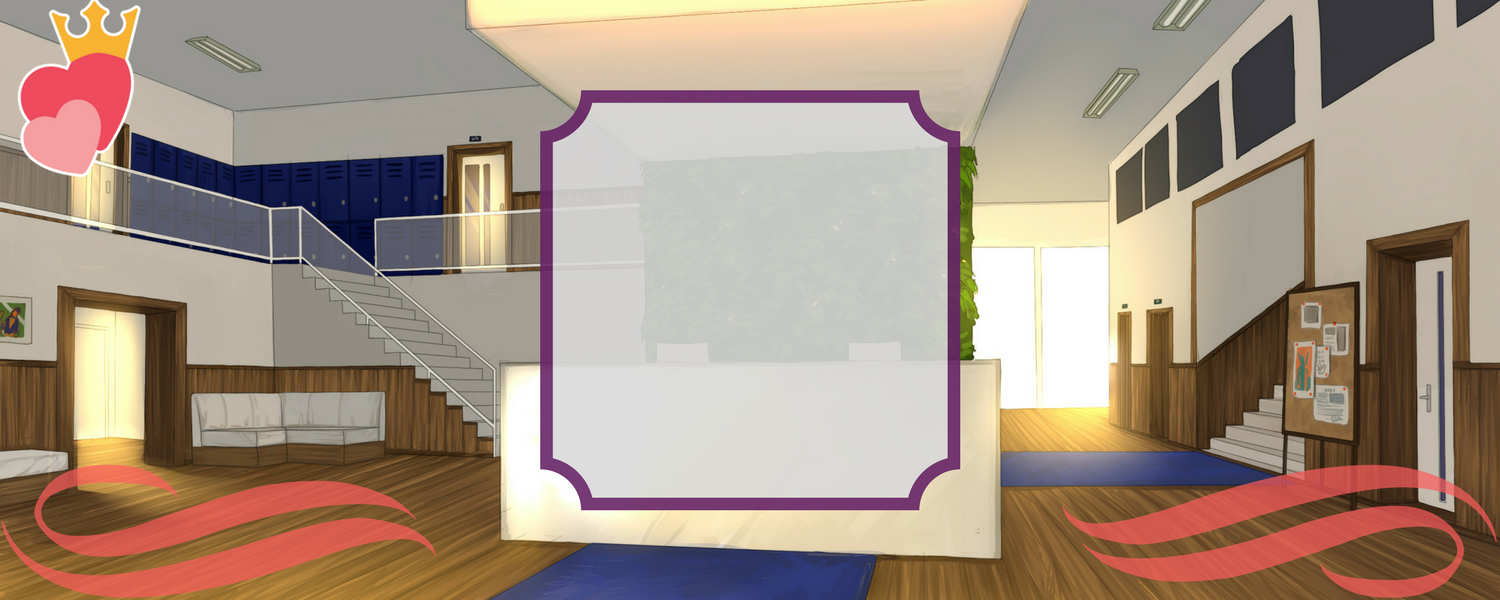
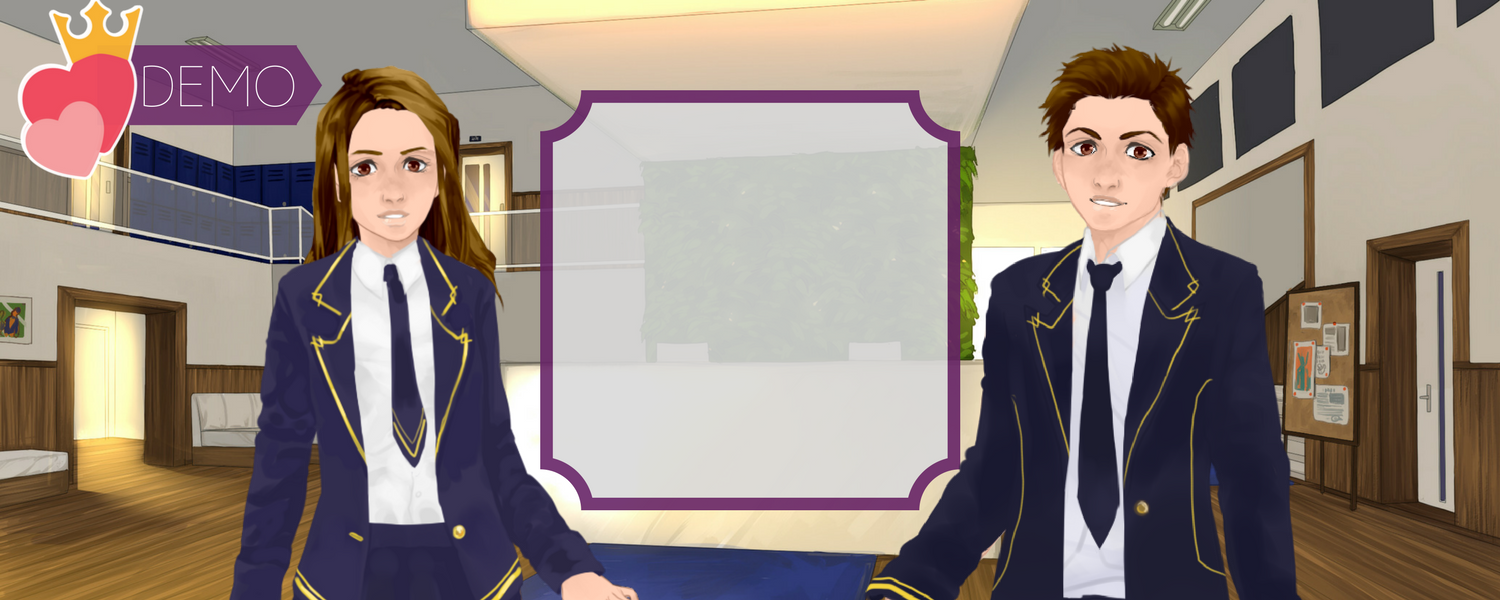
Version 1.3.5

diff --git a/css/se-stylesheet.css b/css/se-stylesheet.css
@@ -367,7 +367,7 @@
 	{
 		position: relative;
 		display: flex;
-
+		margin: 10px;
 		padding-bottom: 10px;
 
 		left: 50%;
@@ -1182,6 +1182,12 @@
 	.flex-panel2/*must have a flex-container parent*/
 	{
 		flex:2;
+	}
+
+	.flex-panel3/*must have a flex-container parent*/
+	{
+		flex:3;
+		margin: 5px;
 	}
 
 	.login-signup-labels

diff --git a/index.php b/index.php
@@ -183,8 +183,29 @@
 				</div>
 				
 				<div class = "card-content">
-					<p>Sweet Elite's Demo is now available!</p>
-					<p>Sign up now and get access to 3 free chapters to celebrate the demo's release!</p>
+					<h4>Sweet Elite's Demo is Now Available!</h4>
+					<p><b>Sign up now and get access to 3 FREE chapters to celebrate the demo's release!</b></p>
+					<br>
+
+					<div class = "flex-container">
+						<div class = "flex-panel3">
+							<img class = "img-badge" src = "images/general/chapter_images/chapter0.png"></img>
+							<h5>INTRODUCTION</h5>
+							<p><b>Teaser:</b> You just arrived at Arlington Academy, but everything is so new and big! You're going to need help from a few senior students who will lay down the basics on you.</p>
+						</div>
+
+						<div class = "flex-panel3">
+							<img class = "img-badge" src = "images/general/chapter_images/chapter1.png"></img>
+							<h5>CHAPTER 1</h5>
+							<p><b>Teaser:</b> Classes start tomorrow, so today is the time to try to make some new friends...but why is everybody so stressed today? What could be on their minds?</p>
+						</div>
+
+						<div class = "flex-panel3">
+							<img class = "img-badge" src = "images/general/chapter_images/chapter2.png"></img>
+							<h5>CHAPTER 2</h5>
+							<p><b>Teaser:</b> It seems the whole school is to be revolving around a certain teenage celebrity and an exclusive homecoming party. But things aren't exactly as great as they look on the surface...</p>
+						</div>
+					</div>
 				</div>
 
 				<div style = "position: relative;">

diff --git a/profile/profile_idcard.php b/profile/profile_idcard.php
@@ -114,7 +114,7 @@ $hauteur_source6 = imagesy($source6);
 imagefilter($source2, IMG_FILTER_COLORIZE, $eye_rgb[0], $eye_rgb[1], $eye_rgb[2], $eye_rgb[3]); //Eye color
 imagefilter($source3, IMG_FILTER_COLORIZE, $skin_rgb[0], $skin_rgb[1], $skin_rgb[2], $skin_rgb[3]); //Lip color = skin color
 imagefilter($source4, IMG_FILTER_COLORIZE, $hair_rgb[0], $hair_rgb[1], $hair_rgb[2], $hair_rgb[3]); //Hair color
-imagefilter($destination, IMG_FILTER_COLORIZE, $skin_rgb[0], $skin_rgb[1], $skin_rgb[2], $skin_rgb[3]);//Skin color
+imagefilter($source6, IMG_FILTER_COLORIZE, $skin_rgb[0], $skin_rgb[1], $skin_rgb[2], $skin_rgb[3]);//Skin color
 
 imagecopy($destination, $source6, 0, 0, 0, 0, $largeur_source6, $hauteur_source6);
 imagecopy($destination, $source1, 0, 0, 0, 0, $largeur_source, $hauteur_source);

diff --git a/CHANGELOG.md b/CHANGELOG.md
@@ -1,5 +1,12 @@
 #CHANGELOG
 
+Version 1.3.5 (June)
+- Added more content in the "Start Playing" div in index.php
+- Added relevant additions in se-stylesheet.css
+- Changed the banner on index.php logged off (now includes male and female scholar because it's pretty)
+- Fixed layer colorization mistake in profile_idcard.php
+- Added all of the trimmed scholar images for the randomizer in index.php
+
 Version 1.3.4 (STABLE)
 
 - *TYPO*            [ALL FILES]                     changé "Sweet Elite: Flirt and Uncover the Secrets of Arlington Academy!<" pour enlever le typo
